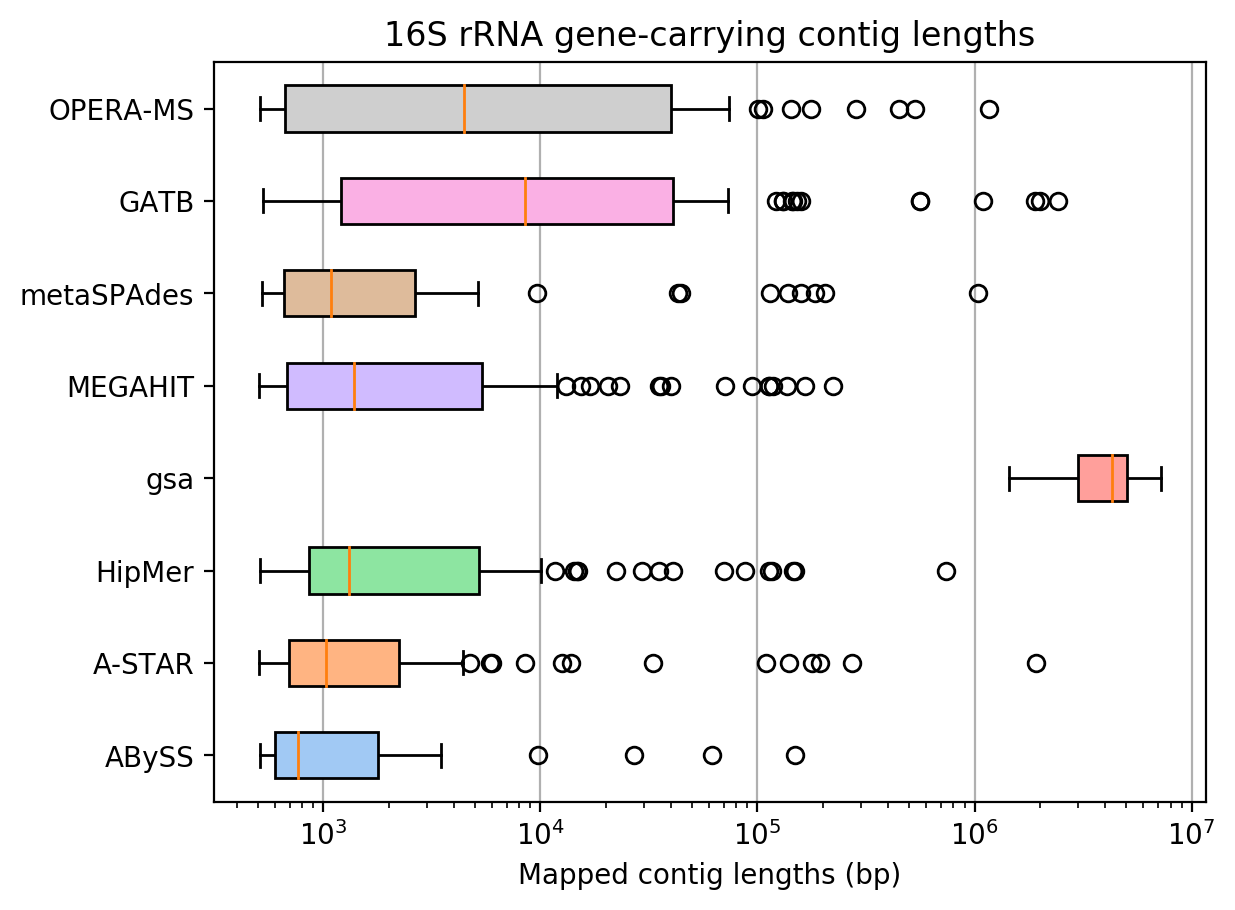
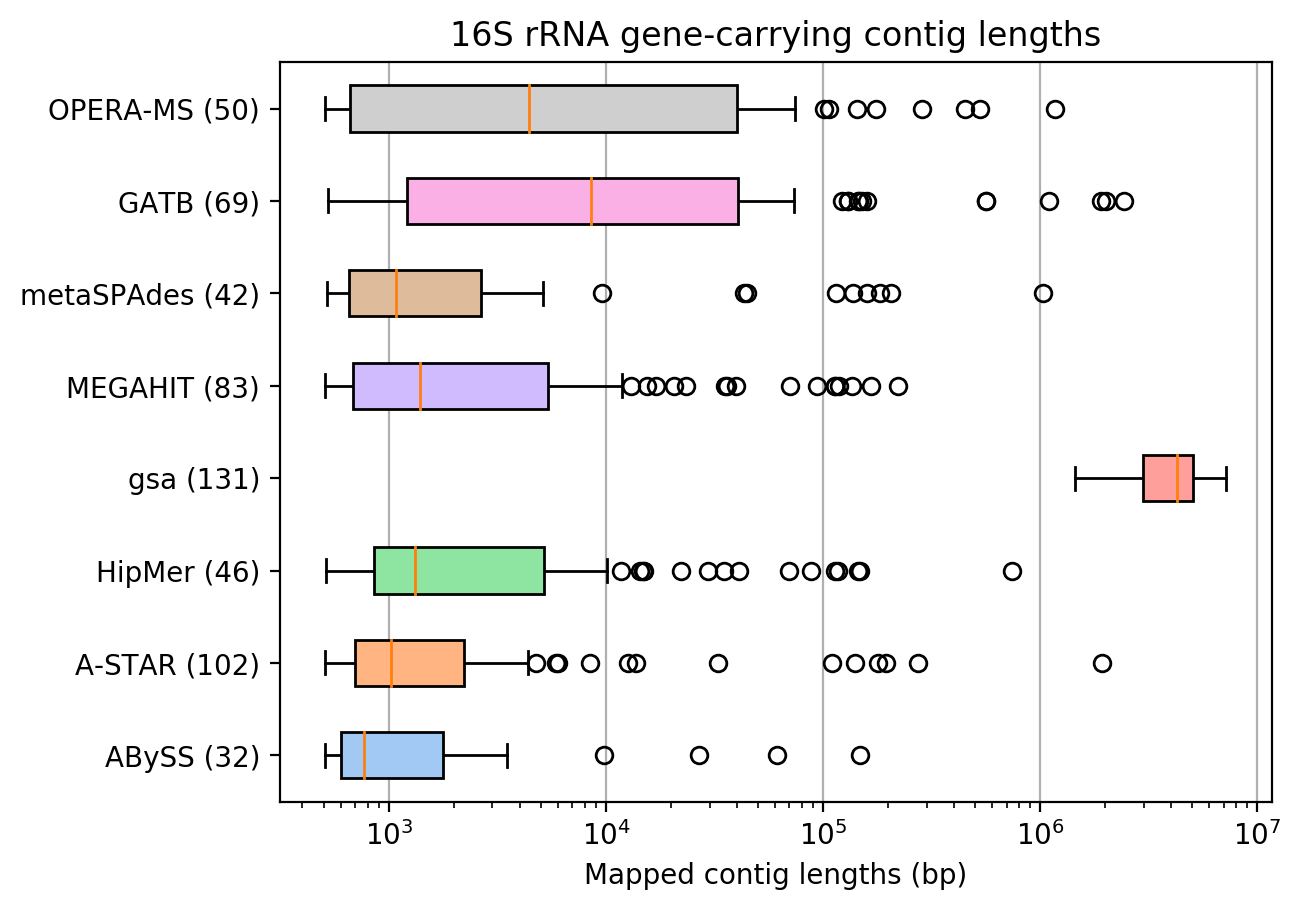
Updated 16S/CRISPR script and plots

diff --git a/assembly/scripts/eval_regions.py b/assembly/scripts/eval_regions.py
@@ -8,6 +8,7 @@ import seaborn as sns
 import numpy as np
 
 paf = sys.argv[1]
+which = sys.argv[2]
 
 max_diff = 0.
 assemblers = {}
@@ -23,8 +24,10 @@ for f in files:
     c_lengths = []
     length = 0
     cont = False
-    assembler = f[:f.find("Otu") - 1]
-    ##assembler = f[:f.find("GCA") - 1] # for CRISPRs
+    if which == "16S":
+        assembler = f[:f.find("Otu") - 1]
+    else:
+        assembler = f[:f.find("GCA") - 1] # for CRISPRs
     with open(paff, 'r') as p:
         for line in p:
             spl = line.strip().split('\t')
@@ -56,10 +59,12 @@ for f in files:
         else:
             assemblers[assembler] = [frags, cigs, diffs, c_lengths]
 
-subset_names = {'ABySS_short':"ABySS",'A-STAR_contig_hybrid':"A-STAR",'HipMer_Metagenome_short':"HipMer",'marmgCAMI2_short_read_pooled_gsa':"gsa",'Megahit_v1-1-4-2_short':"MEGAHIT",'metaSPAdes_v3-13-1_short':"metaSPAdes",'Miniasm_GATB_hybrid':"GATB",'OPERA-MS-inhouse_hybrid':"OPERA-MS"}
-##subset_names = {'ABySS':"ABySS",'A-STAR':"A-STAR",'HipMer':"HipMer",'marmgCAMI2':"gsa",'Megahit':"MEGAHIT",'metaSPAdes':"metaSPAdes",'Miniasm':"GATB",'OPERA-MS-inhouse':"OPERA-MS"}
-subset = ['ABySS_short','A-STAR_contig_hybrid','HipMer_Metagenome_short','marmgCAMI2_short_read_pooled_gsa','Megahit_v1-1-4-2_short','metaSPAdes_v3-13-1_short','Miniasm_GATB_hybrid','OPERA-MS-inhouse_hybrid']
-##subset = subset_names.keys()
+if which == "16S":
+    subset_names = {'ABySS_short':"ABySS",'A-STAR_contig_hybrid':"A-STAR",'HipMer_Metagenome_short':"HipMer",'marmgCAMI2_short_read_pooled_gsa':"gsa",'Megahit_v1-1-4-2_short':"MEGAHIT",'metaSPAdes_v3-13-1_short':"metaSPAdes",'Miniasm_GATB_hybrid':"GATB",'OPERA-MS-inhouse_hybrid':"OPERA-MS"}
+    subset = ['ABySS_short','A-STAR_contig_hybrid','HipMer_Metagenome_short','marmgCAMI2_short_read_pooled_gsa','Megahit_v1-1-4-2_short','metaSPAdes_v3-13-1_short','Miniasm_GATB_hybrid','OPERA-MS-inhouse_hybrid']
+else:
+    subset_names = {'ABySS':"ABySS",'A-STAR':"A-STAR",'HipMer':"HipMer",'marmgCAMI2':"gsa",'Megahit':"MEGAHIT",'metaSPAdes':"metaSPAdes",'Miniasm':"GATB",'OPERA-MS-inhouse':"OPERA-MS"}
+    subset = subset_names.keys()
 fig, (ax1, ax2) = plt.subplots(figsize=(14, 12), nrows=1, ncols=2, sharey = True)
 #ax1.set_title("Completeness", fontsize=20)
 ax1.tick_params(labelsize=20)
@@ -103,15 +108,17 @@ ax2.grid(axis='x')
 ax2.set_axisbelow(True)
 plt.setp(ax1.collections, alpha=1)
 plt.setp(ax2.collections, alpha=1)
-fig.suptitle("16S rRNA gene assembly quality", fontsize=30)
-plt.savefig("16S_violins.png", bbox_inches='tight')
-##fig.suptitle("CRISPR cassette assembly quality", fontsize=30)
-##plt.savefig("CRISPR_violins.png", bbox_inches='tight')
+if which == "16S":
+    fig.suptitle("16S rRNA gene assembly quality", fontsize=30)
+    plt.savefig("16S_violins.png", bbox_inches='tight')
+else:
+    fig.suptitle("CRISPR cassette assembly quality", fontsize=30)
+    plt.savefig("CRISPR_violins.png", bbox_inches='tight')
 plt.close()
 
 plot3 = plt.boxplot([lengths[x] for x in subset_names], vert=False, patch_artist=True, zorder=3)
-plt.yticks(np.arange(1, len(subset) + 1),[subset_names[x] for x in subset_names])
-#plt.ticklabel_format(axis='x',style='sci',scilimits=(0,0))
+plt.yticks(np.arange(1, len(subset) + 1),["%s (%s)" % (subset_names[x], len(assemblers[x][1])) for x in subset])
+plt.ticklabel_format(axis='x',style='sci',scilimits=(0,0))
 plt.xlabel("Mapped contig lengths (bp)")
 plt.xscale("log")
 plt.grid(axis='x',zorder=0)
@@ -119,7 +126,9 @@ plt.rc('axes', axisbelow=True)
 colors = sns.color_palette("pastel")
 for patch, color in zip(plot3['boxes'], colors):
     patch.set(facecolor = color)#, alpha = 0.3)
-plt.title("16S rRNA gene-carrying contig lengths", fontsize=12)
-plt.savefig("16S_boxes_lengths.png", dpi=200, bbox_inches='tight')
-##plt.title("CRISPR cassette-carrying contig lengths", fontsize=12)
-##plt.savefig("CRISPR_boxes_lengths.png", dpi=200, bbox_inches='tight')
+if which == "16S":
+    plt.title("16S rRNA gene-carrying contig lengths", fontsize=12)
+    plt.savefig("16S_boxes_lengths.png", dpi=200, bbox_inches='tight')
+else:
+    plt.title("CRISPR cassette-carrying contig lengths", fontsize=12)
+    plt.savefig("CRISPR_boxes_lengths.png", dpi=200, bbox_inches='tight')
